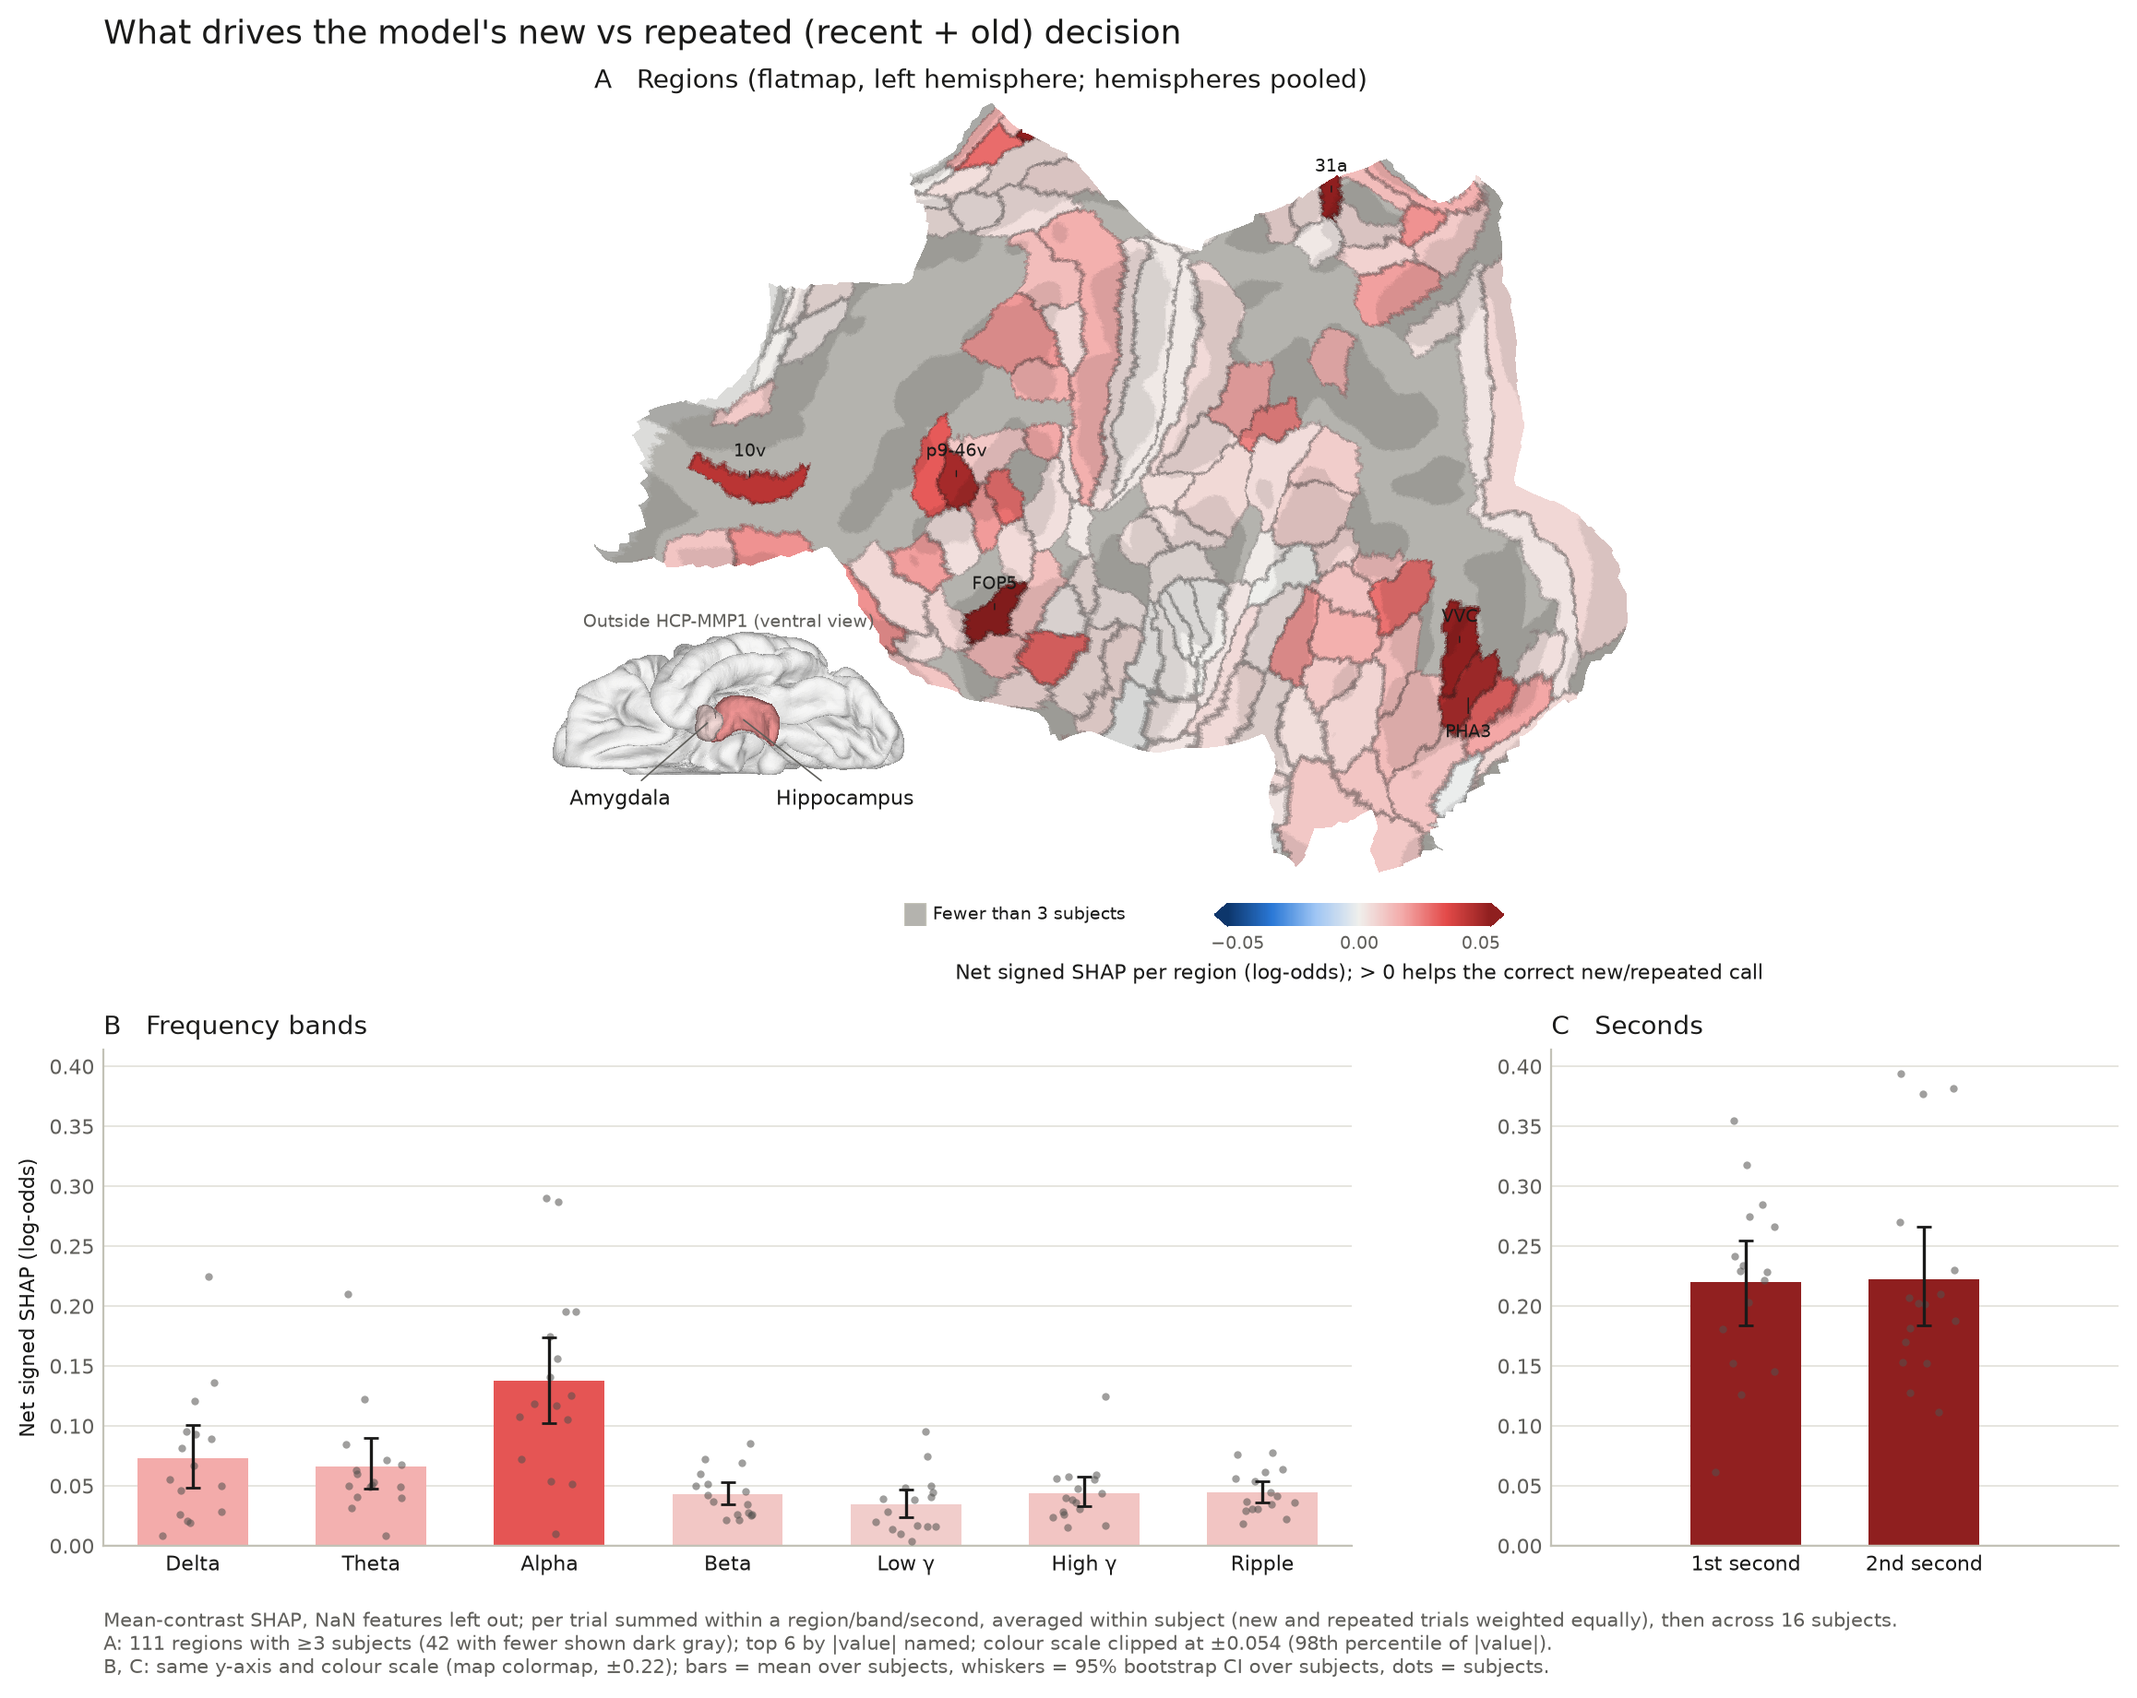
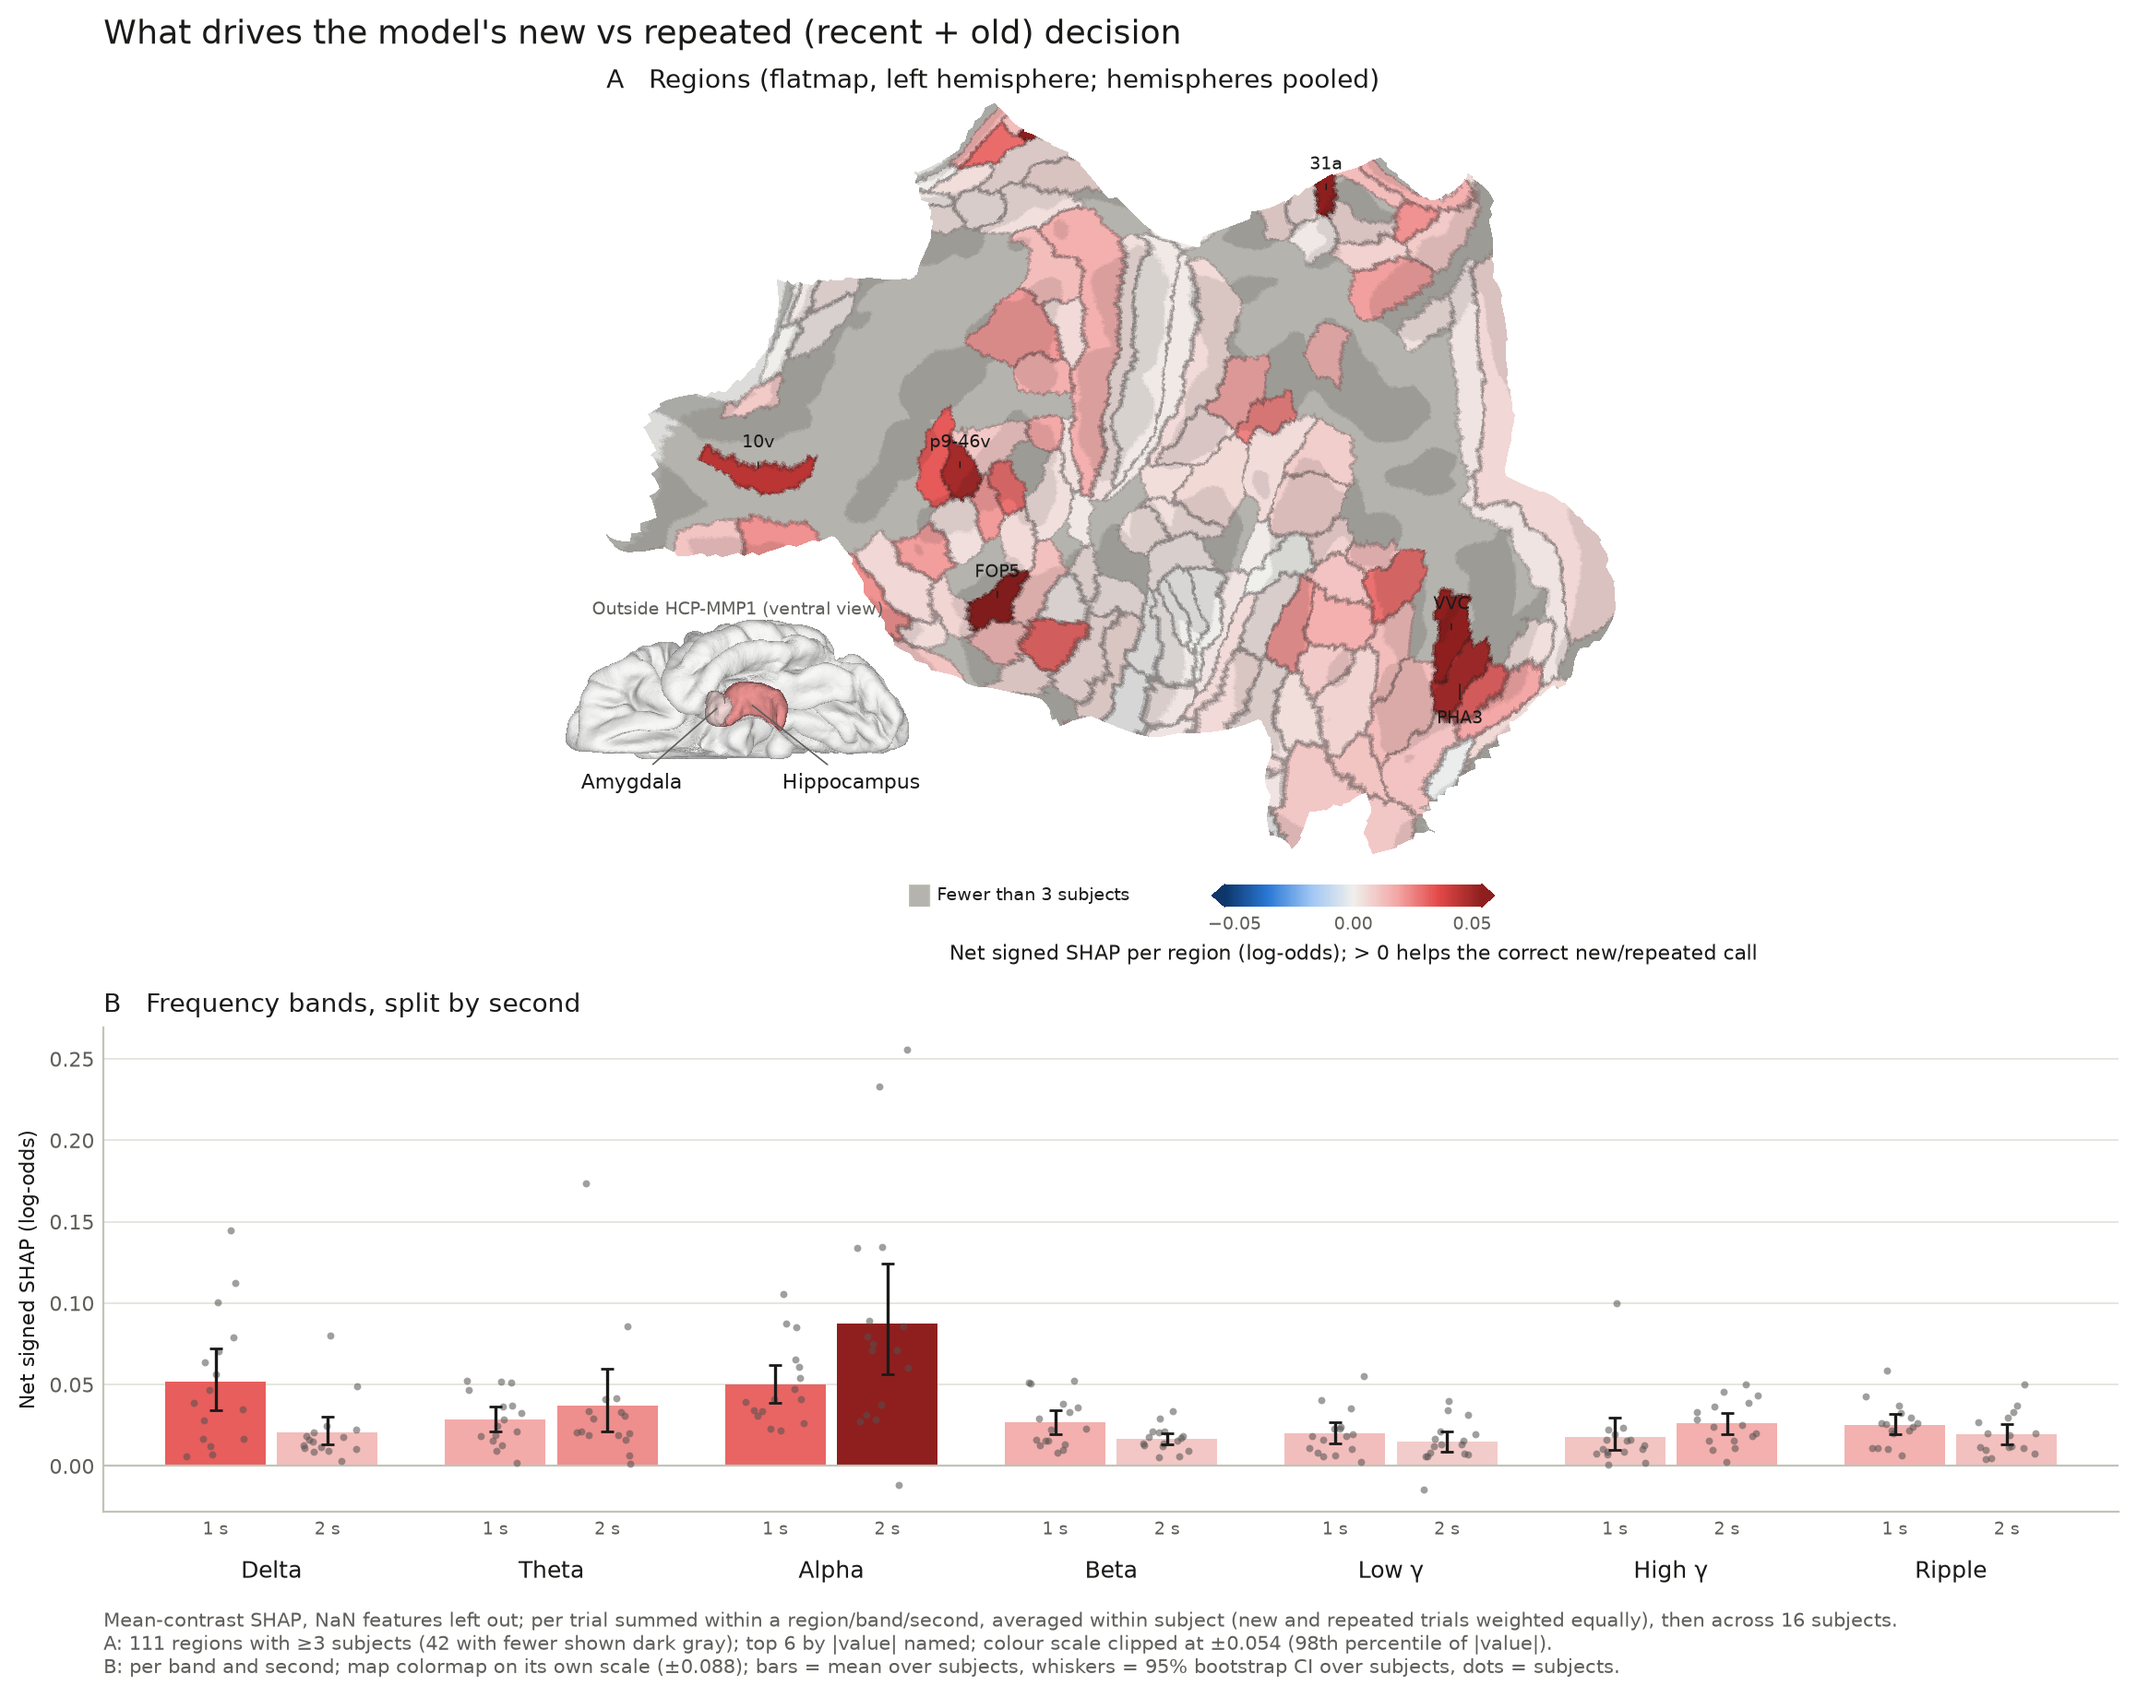
Merge band and second panels into one band x second bar plot
Panel B now shows each frequency band split into its two seconds, bars
side by side and coloured with the map's colormap on their own scale;
the separate seconds panel is removed. Also writes the band x second
table.

Claude-Session: https://claude.ai/code/session_01E7t6Tc3gYXv9BQMm3eai5Y

diff --git a/shap analysis/plot_new_vs_repeated.py b/shap analysis/plot_new_vs_repeated.py
@@ -20,14 +20,13 @@ Panel A: HCP-MMP1 flatmap of the region means, regions covered by at least
 are not HCP-MMP1 parcels, are drawn on the same colour scale in a ventral
 glass-brain inset at the map's bottom left. A parcel split by the flatmap cut
 is labeled once, on its largest piece.
-Panel B: net contribution of the seven frequency bands. Panel C: of the two
-seconds. B and C share one y-axis and one bar width; bars are coloured with
-the map's colormap on a symmetric scale shared by B and C. Dots in B and C
-are the individual subjects.
+Panel B: net contribution of each frequency band, split into its two seconds
+(one bar per band x second, side by side). Bars are coloured with the map's
+colormap on their own symmetric scale; dots are the individual subjects.
 
 Written to --out-dir:
   new_vs_repeated_contributions.png
-  new_vs_repeated_{region,band,second}.csv   mean, CI and number of subjects
+  new_vs_repeated_{region,band,second,band_second}.csv   mean, CI and number of subjects
 """
 
 import argparse
@@ -56,6 +55,7 @@ from plot_electrode_coverage import (ASEG_LABELS, GYRUS, INK, INK_MUTED, SULCUS,
 from signed_shap import NEW_CATEGORY, signed_shap  # noqa: E402
 
 BANDS = ["Delta", "Theta", "Alpha", "Beta", "GammaL", "GammaH", "Ripple"]
+BAND_LABELS = {"GammaL": "Low γ", "GammaH": "High γ"}
 # Diverging blue <-> red with a neutral gray midpoint.
 DIVERGING = LinearSegmentedColormap.from_list(
     "blue_gray_red", ["#0d366b", "#2a78d6", "#9ec5f4", "#f0efec", "#f3a9a8", "#e34948", "#8f1f1f"])
@@ -173,22 +173,35 @@ def style_axis(ax):
     ax.axhline(0, color=AXIS, lw=0.8)
 
 
-def bar_panel(ax, subj: pd.DataFrame, stats: pd.DataFrame, order, labels, title, norm):
-    x = np.arange(len(order))
-    s = stats.loc[order]
-    ax.bar(x, s["mean"], width=0.62, color=DIVERGING(norm(s["mean"].to_numpy(float))), zorder=2)
+def band_second_panel(ax, subj: pd.DataFrame, stats: pd.DataFrame, norm):
+    """One bar per band x second: the two seconds of a band side by side.
+
+    Bars carry the map's colormap (value), so the second is told by position
+    and the "1 s" / "2 s" tick under each bar, with the band name below."""
+    width, gap = 0.36, 0.04
+    x, ticks = [], []
+    for i, band in enumerate(BANDS):
+        for sec, off in ((1, -(width + gap) / 2), (2, (width + gap) / 2)):
+            x.append(i + off)
+            ticks.append((band, sec))
+    x = np.array(x)
+    s = stats.loc[ticks]
+    ax.bar(x, s["mean"], width=width, color=DIVERGING(norm(s["mean"].to_numpy(float))), zorder=2)
     ax.errorbar(x, s["mean"], yerr=[s["mean"] - s["ci_low"], s["ci_high"] - s["mean"]],
-                fmt="none", ecolor=INK, elinewidth=1.2, capsize=3, zorder=4)
+                fmt="none", ecolor=INK, elinewidth=1.2, capsize=2.5, zorder=4)
     rng = np.random.default_rng(1)
-    for i, g in enumerate(order):
-        v = subj[g].dropna()
-        ax.scatter(i + rng.uniform(-0.18, 0.18, len(v)), v, s=9, color=DOT, alpha=0.55,
+    for xi, key in zip(x, ticks):
+        v = subj[key].dropna()
+        ax.scatter(xi + rng.uniform(-0.11, 0.11, len(v)), v, s=8, color=DOT, alpha=0.55,
                    linewidths=0, zorder=3)
     style_axis(ax)
-    ax.set_xticks(x, labels, fontsize=8, color=INK)
+    ax.set_xlim(-0.6, len(BANDS) - 0.4)
+    ax.set_xticks(x, [f"{sec} s" for _, sec in ticks], fontsize=7, color=INK_MUTED)
+    for i, band in enumerate(BANDS):
+        ax.text(i, -0.1, BAND_LABELS.get(band, band), transform=ax.get_xaxis_transform(),
+                ha="center", va="top", fontsize=9, color=INK)
     ax.set_ylabel("Net signed SHAP (log-odds)", fontsize=8, color=INK)
-    ax.set_title(title, fontsize=10, color=INK, loc="left")
-
+    ax.set_title("B   Frequency bands, split by second", fontsize=10, color=INK, loc="left")
 
 def main():
     ap = argparse.ArgumentParser(description=__doc__, formatter_class=argparse.RawDescriptionHelpFormatter)
@@ -202,10 +215,12 @@ def main():
 
     out = signed_shap(pd.read_pickle(args.pkl))
     signed, missing = out["signed"], out["missing"]
-    subj = {lvl: subject_means(signed, missing, lvl) for lvl in ("region", "band", "second")}
-    stats = {lvl: pool(s, args.n_boot) for lvl, s in subj.items()}
-    for lvl, s in stats.items():
-        s.to_csv(args.out_dir / f"new_vs_repeated_{lvl}.csv")
+    levels = {"region": "region", "band": "band", "second": "second", "band_second": ["band", "second"]}
+    subj = {name: subject_means(signed, missing, lvl) for name, lvl in levels.items()}
+    stats = {name: pool(s, args.n_boot) for name, s in subj.items()}
+    stats["band_second"].index.names = ["band", "second"]
+    for name, s in stats.items():
+        s.to_csv(args.out_dir / f"new_vs_repeated_{name}.csv")
 
     region = stats["region"]
     shown = region[region["n_subjects"] >= args.min_subjects]
@@ -217,10 +232,10 @@ def main():
     norm = TwoSlopeNorm(0, -vmax, vmax)
 
     fig = plt.figure(figsize=(12, 9.2), facecolor="white")
-    gs = fig.add_gridspec(2, 2, height_ratios=[1.55, 1], width_ratios=[2.2, 1],
-                          hspace=0.28, wspace=0.22, left=0.07, right=0.98, top=0.93, bottom=0.08)
+    gs = fig.add_gridspec(2, 1, height_ratios=[1.55, 1], hspace=0.28,
+                          left=0.07, right=0.98, top=0.93, bottom=0.1)
 
-    ax = fig.add_subplot(gs[0, :])
+    ax = fig.add_subplot(gs[0])
     draw_region_map(ax, geo, shown["mean"], norm, n_labels=6)
     ax.set_title("A   Regions (flatmap, left hemisphere; hemispheres pooled)",
                  fontsize=10, color=INK, loc="left")
@@ -239,22 +254,11 @@ def main():
     leg.add_patch(plt.Rectangle((0, 0), 0.08, 1, facecolor=NO_DATA_GYRUS, edgecolor=AXIS, lw=0.5))
     leg.text(0.11, 0.5, f"Fewer than {args.min_subjects} subjects", fontsize=7, color=INK, va="center")
 
-    ax_b = fig.add_subplot(gs[1, 0])
-    # Bars use the map's colormap, on one symmetric scale shared by B and C (the
-    # map's own clipped scale would saturate them).
-    bar_max = max(np.abs(stats[lvl]["mean"]).max() for lvl in ("band", "second"))
-    bar_norm = TwoSlopeNorm(0, -bar_max, bar_max)
-    bar_panel(ax_b, subj["band"], stats["band"], BANDS,
-              [b.replace("GammaL", "Low γ").replace("GammaH", "High γ") for b in BANDS],
-              "B   Frequency bands", bar_norm)
-    ax_c = fig.add_subplot(gs[1, 1], sharey=ax_b)
-    bar_panel(ax_c, subj["second"], stats["second"], [1, 2], ["1st second", "2nd second"], "C   Seconds",
-              bar_norm)
-    ax_c.set_ylabel("")
-    # Same physical bar width in B and C: give C as many x-units per inch as B.
-    ax_b.set_xlim(-0.5, len(BANDS) - 0.5)
-    half = 0.5 * len(BANDS) * ax_c.get_position().width / ax_b.get_position().width
-    ax_c.set_xlim(0.5 - half, 0.5 + half)
+    # Bars use the map's colormap on their own symmetric scale (the map's clipped
+    # scale would saturate them).
+    bar_max = np.abs(stats["band_second"]["mean"]).max()
+    band_second_panel(fig.add_subplot(gs[1]), subj["band_second"], stats["band_second"],
+                      TwoSlopeNorm(0, -bar_max, bar_max))
 
     n_subj = len(subj["band"])
     fig.suptitle("What drives the model's new vs repeated (recent + old) decision",
@@ -265,11 +269,11 @@ def main():
              f"A: {len(shown)} regions with ≥{args.min_subjects} subjects "
              f"({len(region) - len(shown)} with fewer shown dark gray); top 6 by |value| named; "
              f"colour scale clipped at ±{vmax:.3f} (98th percentile of |value|).\n"
-             f"B, C: same y-axis and colour scale (map colormap, ±{bar_max:.2f}); bars = mean over subjects, whiskers = 95% bootstrap CI over subjects, dots = subjects.",
+             f"B: per band and second; map colormap on its own scale (±{bar_max:.3f}); bars = mean over subjects, whiskers = 95% bootstrap CI over subjects, dots = subjects.",
              fontsize=7.5, color=INK_MUTED)
     fig.savefig(args.out_dir / "new_vs_repeated_contributions.png", dpi=200, bbox_inches="tight")
     print("wrote", args.out_dir / "new_vs_repeated_contributions.png")
-    print(stats["band"].round(4).to_string()); print(stats["second"].round(4).to_string())
+    print(stats["band_second"].round(4).to_string())
 
 
 if __name__ == "__main__":
